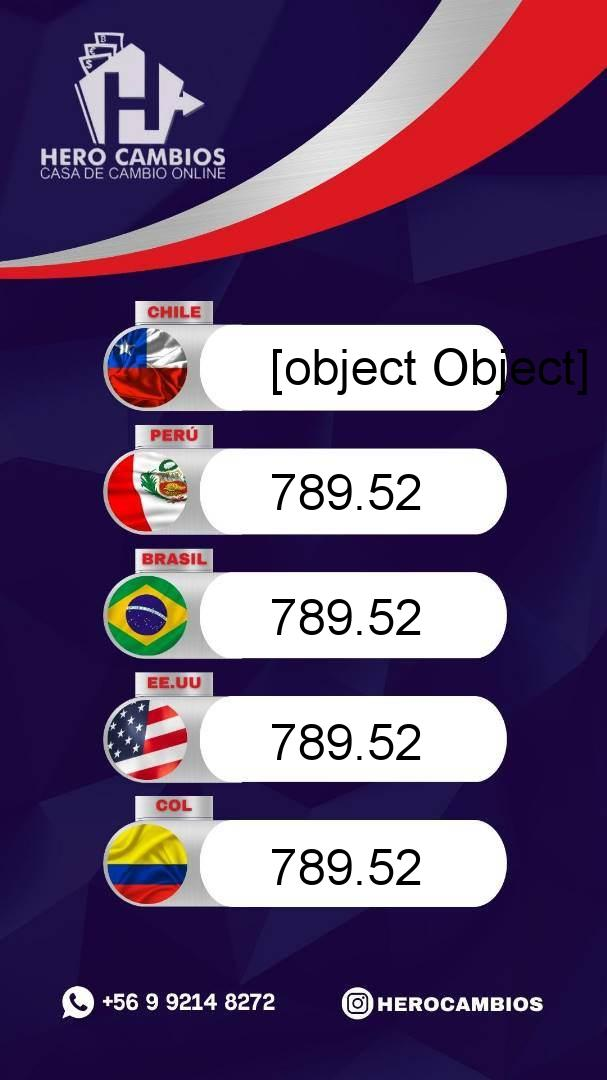
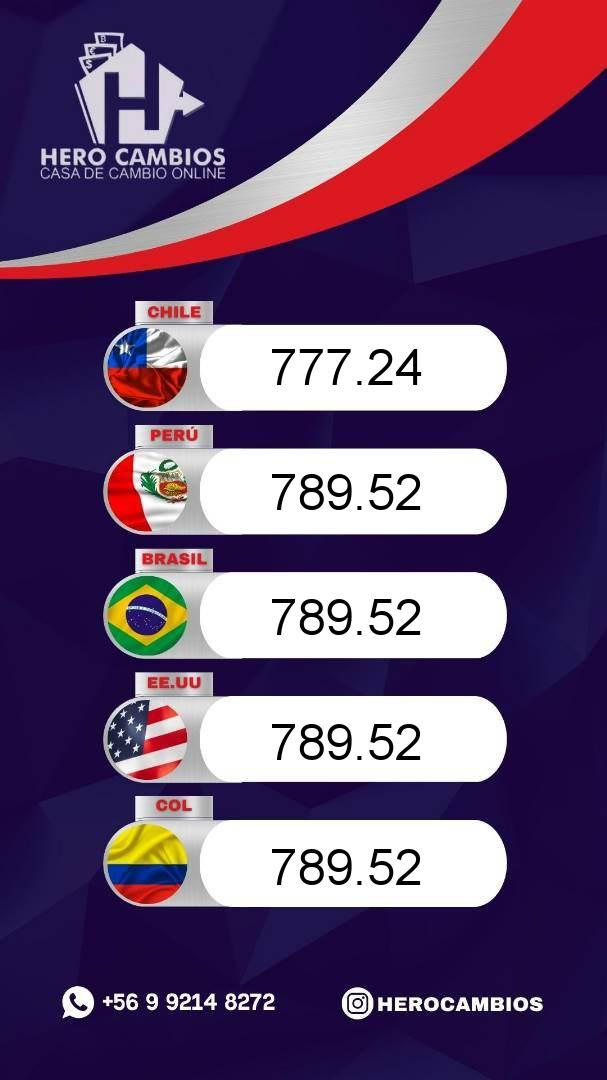
fix bugs

Changed region(s): [[0.4448, 0.3056, 0.9786, 0.3667]]

diff --git a/index.js b/index.js
@@ -8,12 +8,6 @@ const imagePath = 'public/hero-photo.jpg';
 const canvas = createCanvas(800, 600);
 const context = canvas.getContext('2d')
 
-process.stdout.write('Ingresa el valor Chile')
-
-const question1 = process.stdin.on('data', data => {
-  process.exit()
-})
-console.log(question1)
 // Cargar la imagen
 loadImage(imagePath).then(image => {
   // Asignar el ancho y alto del canvas al de la imagen
@@ -28,7 +22,7 @@ loadImage(imagePath).then(image => {
   context.fillStyle = '#000000'
 
 
-  context.fillText(question1, 270, 385)
+  context.fillText('777.24', 270, 385)
   context.fillText('789.52', 270, 510)
   context.fillText('789.52', 270, 635)
   context.fillText('789.52', 270, 760)
